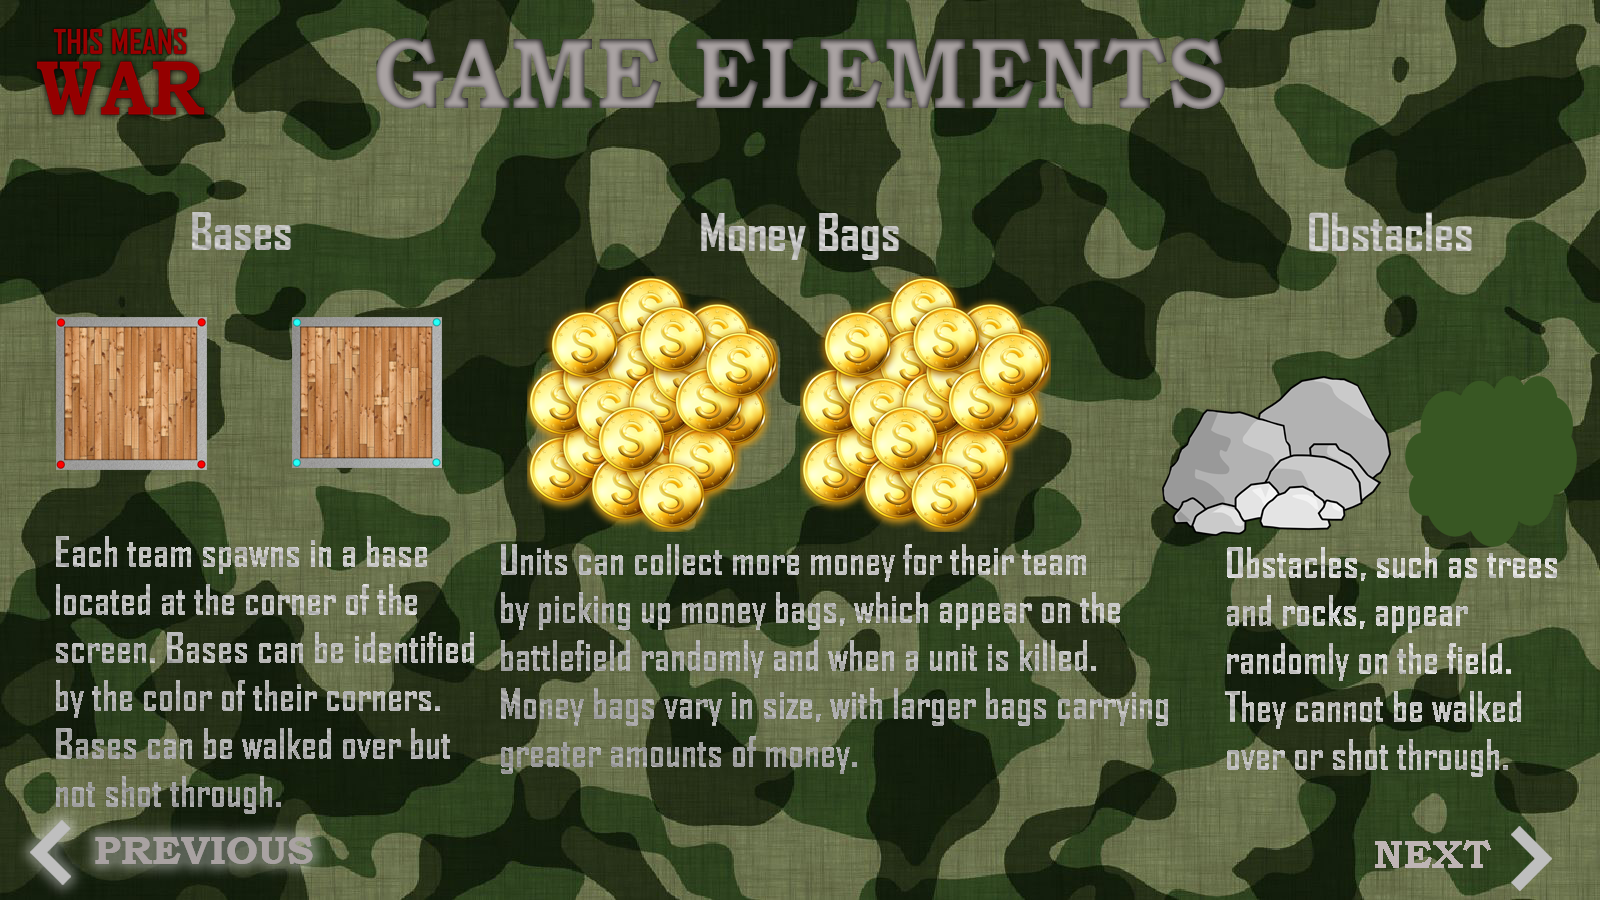
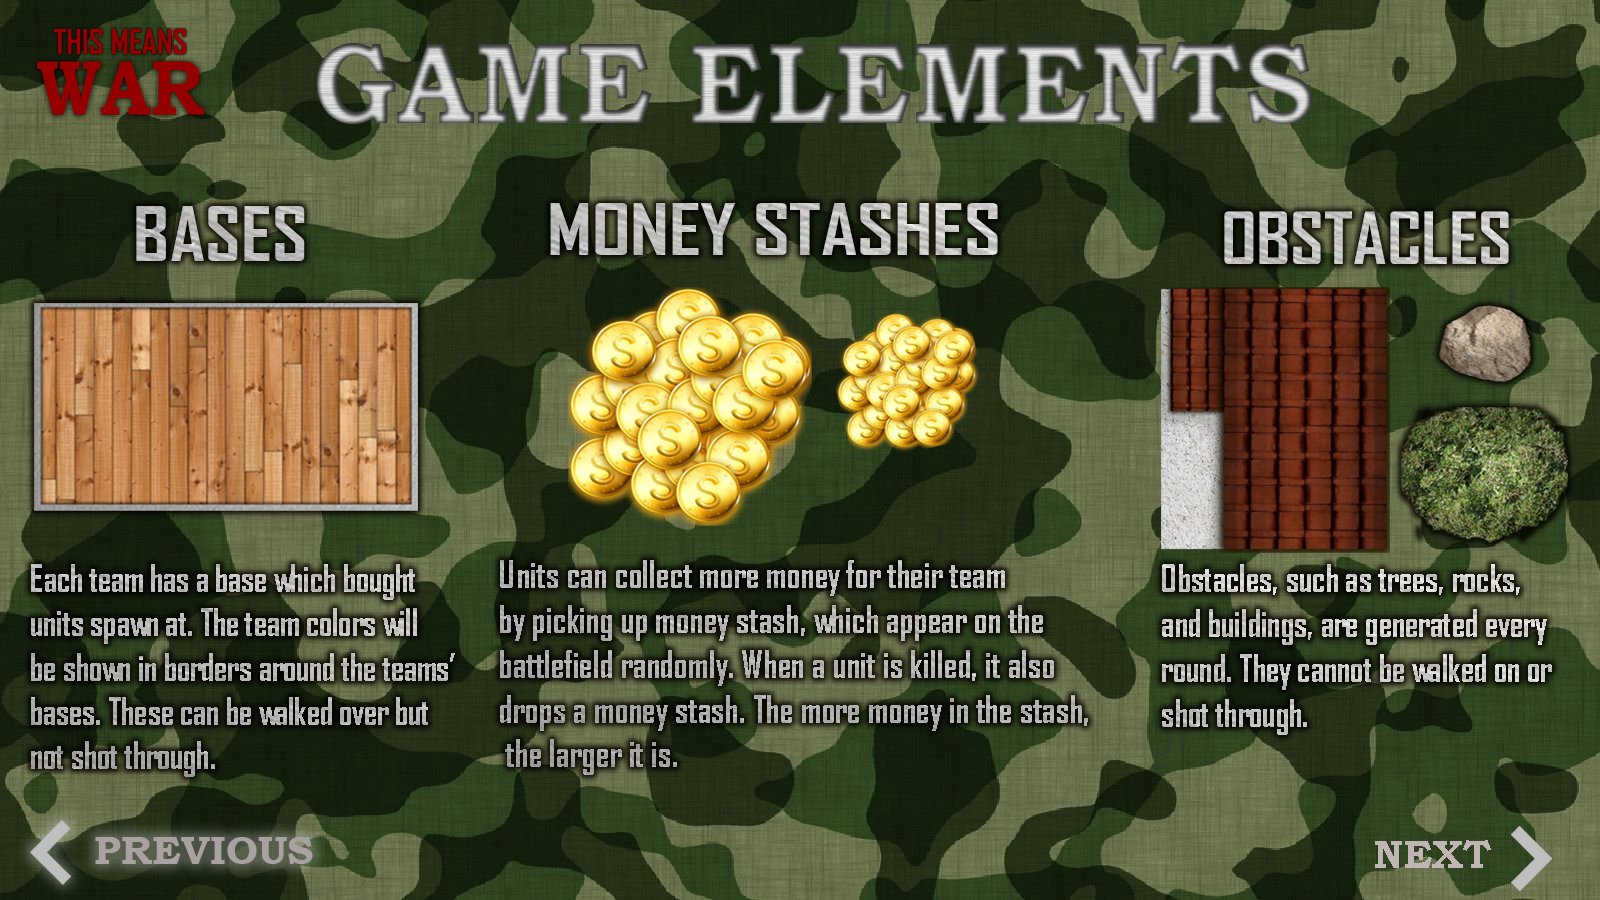
New images! Testing small res

diff --git a/src/GameUI.java b/src/GameUI.java
@@ -478,15 +478,21 @@ public class GameUI extends Stage {
 	
 	public void checkEndGame()
 	{
+		createEnd(1);
+		int winnerIndex = -1;
 		int nonNull = 0;
-		for(Player p : players)
+		for(int k = 0; k < players.size(); k++)
 		{
-			nonNull += (p == null) ? 0 : 1;
+			if(players.get(k) != null)
+			{
+				nonNull++;
+				winnerIndex = k;
+			}
 		}
 		
 		if(nonNull == 1)
 		{
-			createEnd();
+			createEnd(winnerIndex);
 		}
 	}
 	
@@ -850,7 +856,7 @@ public class GameUI extends Stage {
         });
 		root.getChildren().add(tankPanel);
 	}
-	public void createEnd()
+	public void createEnd(int winnerIndex)
 	{
 		endScreen = new Stage();
 		endScreen.initStyle(StageStyle.TRANSPARENT);
@@ -860,7 +866,7 @@ public class GameUI extends Stage {
 		Scene scene = new Scene(endRoot, END_SCREEN_WIDTH * widthRatio, END_SCREEN_HEIGHT * heightRatio);
 		
 		Text winner = Tools.createText(WINNER_X, WINNER_Y, widthRatio, heightRatio,
-				players.get(0).getName(), Color.DARKRED.darker(),
+				players.get(winnerIndex).getName(), Color.DARKRED.darker(),
 				Tools.SMALL_SHADE, Tools.createFont("Bookman Old Style", null, WINNER_SIZE, smallestRatio));
 		
 		Rectangle endExit = createEndExit();

diff --git a/src/Tools.java b/src/Tools.java
@@ -53,7 +53,7 @@ public class Tools {
 	public static final int SERG_COST = 300;
 
 	public static final int TANK_HEALTH = 450;
-	public static final double TANK_ATT_RANGE = 500;
+	public static final double TANK_ATT_RANGE = 55000;
 	public static final int TANK_DMG = 200;
 	public static final double TANK_MOVE_RANGE = 250;
 	public static final int TANK_COST = 400;

diff --git a/src/Main.java b/src/Main.java
@@ -37,7 +37,7 @@ public class Main extends Application{
 	 */
 	public Main()
 	{
-		setRes(dispWidth, dispHeight);
+		setRes(dispWidth-500, dispHeight-300);
 		updateRatio();
 	}
 	/**Sets the new x and y resolutions based on given values and updates the ratios.
